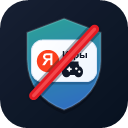
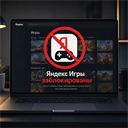
Add files via upload

diff --git a/README.md b/README.md
@@ -1,16 +1,16 @@
 <p align="center">
-  <img src="./assets/logo.svg" width="132" alt="Block Yandex Games logo">
+  <img src="./assets/logo.png" width="520" alt="Yandex Games blocked">
 </p>
 
 <h1 align="center">Block Yandex Games</h1>
 
 <p align="center">
-  Легкое расширение для Chromium-браузеров, которое блокирует открытие страниц Yandex Games.
+  Легкое расширение для Chromium-браузеров, которое блокирует открытие страниц Яндекс Игры.
 </p>
 
 ## Что делает расширение
 
-Block Yandex Games использует `declarativeNetRequest` из Manifest V3 и блокирует переходы на:
+Block Yandex Games использует `declarativeNetRequest` из Manifest V3 и блокирует переходы на Яндекс Игры:
 
 ```text
 https://yandex.ru/games/*
@@ -52,7 +52,7 @@ https://yandex.ru/games/
 ```text
 .
 ├── assets/
-│   ├── logo.svg
+│   ├── logo.png
 │   ├── icon-16.png
 │   ├── icon-32.png
 │   ├── icon-48.png
@@ -76,4 +76,4 @@ https://yandex.ru/games/
 
 ## Дисклеймер
 
-Проект не связан с Яндексом и не является официальным продуктом Яндекса. Логотип расширения использует стилизованное обозначение Яндекс Игр, а не официальный знак сервиса.
+Проект не связан с Яндексом и не является официальным продуктом Яндекса. Изображение в README и иконках является сгенерированным визуальным ассетом для демонстрации блокировки Яндекс Игр.
